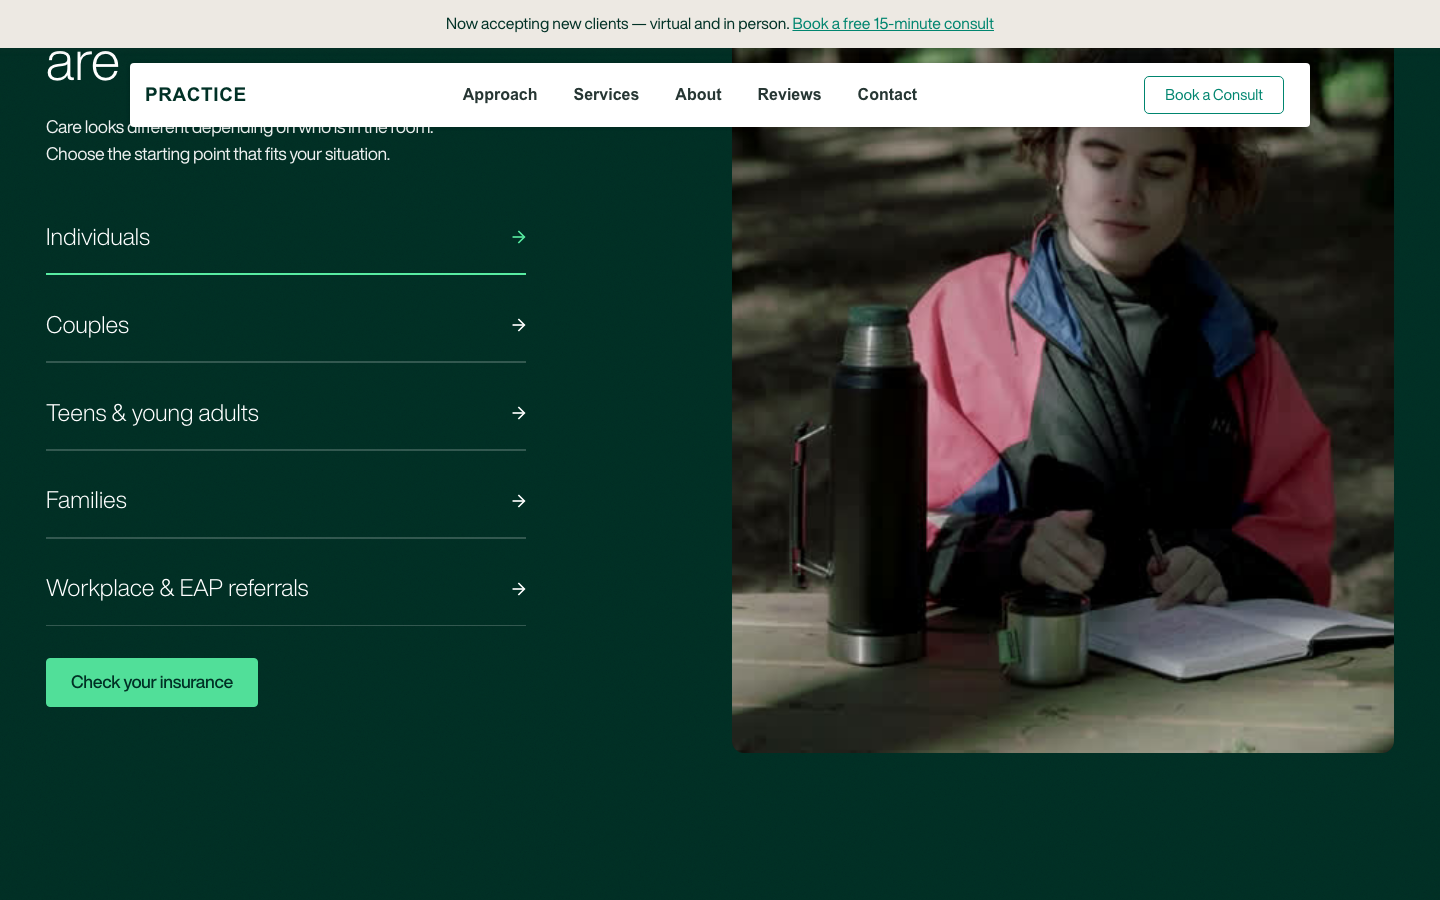
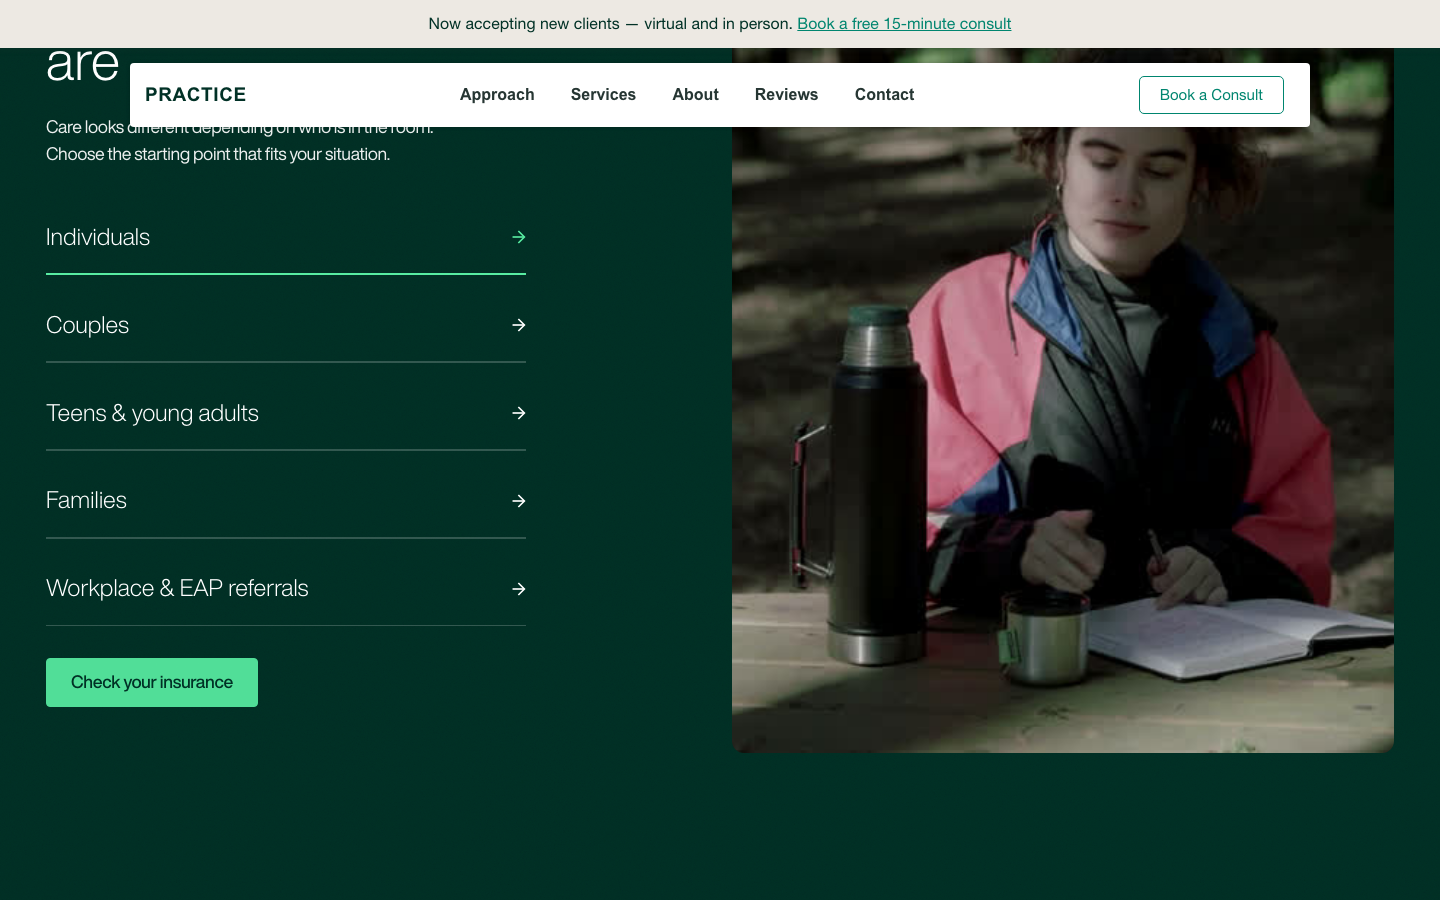
Mobile hardening: zero errors, zero small tap targets
- removed the reference site JS (lazy-loaded 5 nonexistent code-split chunks
  and threw on a null innerText) plus two dead ad-pixel snippets
- pinned font stacks: hero pill was falling back to default MONOSPACE because
  the reference sets a licensed mono face that is not served
- touch targets: 37 under 44px -> 0 (CTAs, banner link, nav, footer, swiper
  arrows, story tabs, About read-more)
- eyebrow labels lifted off the 10-11px floor to 12px
- verified chromium + webkit at 320 / 390 / 430 / 768

diff --git a/_therapy2/index.html b/_therapy2/index.html
@@ -16,6 +16,31 @@
       @keyframes tmarquee{from{transform:translateX(0)}to{transform:translateX(-50%)}}
       @media (prefers-reduced-motion:reduce){.n4-main_marquee_wrap{animation:none}}
     </style><style>
+  :root{--t-sans:'Inter',-apple-system,'Helvetica Neue',Arial,sans-serif;
+        --t-serif:'DM Serif Display',Georgia,serif}
+  body,.n4-hero_main_pill_text,[class*="n4-"],[class*="nav"],[class*="footer"]{
+    font-family:var(--t-sans)}
+  em,.n4-u-text-style-serif,[class*="cc-serif"]{font-family:var(--t-serif)}
+</style><style>
+  @media (max-width:991px){
+    .cta__green,.n4-btn_main_wrap a,.n4-btn_main_wrap button,
+    a.btn,.nav__link-item,.n4-footer_content_link a,.n4-footer_link_wrap a{
+      min-height:44px;display:inline-flex;align-items:center}
+    .banner-text a,.web-banner-container a{
+      display:inline-block;min-height:44px;line-height:44px}
+    .n4-footer_link_text{display:block;min-height:40px;line-height:40px}
+    .w-nav-button{min-width:44px;min-height:44px}
+    .branding__maven,.w-nav-brand{min-height:44px;display:inline-flex;align-items:center}
+    .n4-industry_link_item{min-height:56px}
+    #aboutMore{min-height:44px;display:inline-flex;align-items:center}
+    .n4-stories_tabs_link{min-height:44px;display:flex;align-items:center}
+    /* swiper arrows ship at 40x40 */
+    .n4-swiper_main_arrow,.swiper-button-next,.swiper-button-prev{
+      min-width:44px;min-height:44px}
+    /* eyebrow labels were 10-11px; lift to the 12px legibility floor */
+    .n4-g_eyebrow_text,.n4-tag_text,[class*="eyebrow"]{font-size:12px!important}
+  }
+</style><style>
   .ins-mark{filter:brightness(0) invert(1);opacity:.62;transition:opacity .2s}
   .n4-marquee_logo_wrap:hover .ins-mark{opacity:1}
   .n4-main_marquee_component{border-top:1px solid #58eda226;border-bottom:1px solid #58eda226}
@@ -4617,25 +4642,7 @@ body {
 <!--<script src="https://cdn.jsdelivr.net/npm/js-cookie@rc/dist/js.cookie.min.js"></script>-->
 <!-- SRI version -->
 
-<script>
-  var cookieName = 'bannerClosed';
-  var cookieValue = 'userClosedIt';
-  var cookieExpire = parseInt(document.querySelector('.web-banner-count').innerText);
-  var banner = document.querySelector('.web-banner');
-  if(typeof Cookies.get(cookieName) !== 'undefined') document.querySelector('.web-banner-collection').remove();
-  
-  var close = document.querySelector('.web-banner-close') !== null;
-  
-  if(close) {
-   document.querySelector('.web-banner-close').addEventListener('click',function() {
-      var cookieName = 'bannerClosed';
-      var cookieValue = 'userClosedIt';
-      Cookies.set(cookieName, cookieValue, { expires: cookieExpire });
-      document.querySelector('.web-banner-collection').remove();
-    }); 
-  }
-  
-</script></div></div></div></div></div><div data-animation="default" data-collapse="medium" data-duration="400" data-easing="ease" data-easing2="ease" role="banner" class="navbar nav-v2 w-nav" data-sc-id="40"><div class="content__nav" data-sc-id="41"><div class="container__navigation" data-sc-id="42"><a href="#" tabindex="0" data-wf-native-id-path="6d0c8c87-3452-2cd4-d920-b1b3b9888b49:0728b815-9a01-0de3-a77f-37e0effe5088:fe0dc579-d8ee-6346-cd16-ae4219dcd764" data-wf-ao-click-engagement-tracking="true" data-wf-element-id="fe0dc579-d8ee-6346-cd16-ae4219dcd764" data-wf-component-context="%5B%7B%22componentId%22%3A%221844fc65-b2a5-c4cf-163e-481cabbe77ec%22%2C%22instanceId%22%3A%226d0c8c87-3452-2cd4-d920-b1b3b9888b49%22%7D%2C%7B%22componentId%22%3A%22fe0dc579-d8ee-6346-cd16-ae4219dcd761%22%2C%22instanceId%22%3A%220728b815-9a01-0de3-a77f-37e0effe5088%22%7D%5D" aria-current="page" class="branding__maven w-nav-brand w--current" aria-label="home" data-sc-id="43" data-link="set-per-client"><span style="font:700 19px/1 Inter,Arial,sans-serif;letter-spacing:.03em;color:#013126">PRACTICE</span></a><nav role="navigation" class="nav-menu-4 w-nav-menu" data-sc-id="45"><a href="#approach" class="nav__link-item cc-nav" style="display:inline-flex;align-items:center;height:64px;padding:20px 18px;font:600 16px/24px Inter,Arial,sans-serif;color:#263633">Approach</a><a href="#services" class="nav__link-item cc-nav" style="display:inline-flex;align-items:center;height:64px;padding:20px 18px;font:600 16px/24px Inter,Arial,sans-serif;color:#263633">Services</a><a href="#about" class="nav__link-item cc-nav" style="display:inline-flex;align-items:center;height:64px;padding:20px 18px;font:600 16px/24px Inter,Arial,sans-serif;color:#263633">About</a><a href="#reviews" class="nav__link-item cc-nav" style="display:inline-flex;align-items:center;height:64px;padding:20px 18px;font:600 16px/24px Inter,Arial,sans-serif;color:#263633">Reviews</a><a href="#contact" class="nav__link-item cc-nav" style="display:inline-flex;align-items:center;height:64px;padding:20px 18px;font:600 16px/24px Inter,Arial,sans-serif;color:#263633">Contact</a></nav><div class="nav__right-block" data-sc-id="93"><div class="header__btn-block" data-sc-id="94"><a tabindex="0" data-wf-native-id-path="6d0c8c87-3452-2cd4-d920-b1b3b9888b49:0728b815-9a01-0de3-a77f-37e0effe5088:fe0dc579-d8ee-6346-cd16-ae4219dcd7c3" data-wf-ao-click-engagement-tracking="true" data-wf-element-id="fe0dc579-d8ee-6346-cd16-ae4219dcd7c3" data-wf-component-context="%5B%7B%22componentId%22%3A%221844fc65-b2a5-c4cf-163e-481cabbe77ec%22%2C%22instanceId%22%3A%226d0c8c87-3452-2cd4-d920-b1b3b9888b49%22%7D%2C%7B%22componentId%22%3A%22fe0dc579-d8ee-6346-cd16-ae4219dcd761%22%2C%22instanceId%22%3A%220728b815-9a01-0de3-a77f-37e0effe5088%22%7D%5D" href="#" class="cta__green cta__outlined w-button" data-sc-id="95" data-link="set-per-client">Book a Consult</a></div><div class="header-nav-btn mr-0 w-nav-button" style="-webkit-user-select: text;" aria-label="menu" role="button" tabindex="0" aria-controls="w-nav-overlay-0" aria-haspopup="menu" aria-expanded="false"><div data-w-id="fe0dc579-d8ee-6346-cd16-ae4219dcd7c9" class="menu-button menu-btn-v2 w-nav-button" style="-webkit-user-select: text;" aria-label="menu" role="button" tabindex="0" aria-controls="w-nav-overlay-0" aria-haspopup="menu" aria-expanded="false"><div class="menu-icon-v2"><div class="icon-line"></div><div class="icon-line"></div><div class="icon-line"></div><div class="icon-line"></div></div></div><div class="w-embed"><style>
+</div></div></div></div></div><div data-animation="default" data-collapse="medium" data-duration="400" data-easing="ease" data-easing2="ease" role="banner" class="navbar nav-v2 w-nav" data-sc-id="40"><div class="content__nav" data-sc-id="41"><div class="container__navigation" data-sc-id="42"><a href="#" tabindex="0" data-wf-native-id-path="6d0c8c87-3452-2cd4-d920-b1b3b9888b49:0728b815-9a01-0de3-a77f-37e0effe5088:fe0dc579-d8ee-6346-cd16-ae4219dcd764" data-wf-ao-click-engagement-tracking="true" data-wf-element-id="fe0dc579-d8ee-6346-cd16-ae4219dcd764" data-wf-component-context="%5B%7B%22componentId%22%3A%221844fc65-b2a5-c4cf-163e-481cabbe77ec%22%2C%22instanceId%22%3A%226d0c8c87-3452-2cd4-d920-b1b3b9888b49%22%7D%2C%7B%22componentId%22%3A%22fe0dc579-d8ee-6346-cd16-ae4219dcd761%22%2C%22instanceId%22%3A%220728b815-9a01-0de3-a77f-37e0effe5088%22%7D%5D" aria-current="page" class="branding__maven w-nav-brand w--current" aria-label="home" data-sc-id="43" data-link="set-per-client"><span style="font:700 19px/1 Inter,Arial,sans-serif;letter-spacing:.03em;color:#013126">PRACTICE</span></a><nav role="navigation" class="nav-menu-4 w-nav-menu" data-sc-id="45"><a href="#approach" class="nav__link-item cc-nav" style="display:inline-flex;align-items:center;height:64px;padding:20px 18px;font:600 16px/24px Inter,Arial,sans-serif;color:#263633">Approach</a><a href="#services" class="nav__link-item cc-nav" style="display:inline-flex;align-items:center;height:64px;padding:20px 18px;font:600 16px/24px Inter,Arial,sans-serif;color:#263633">Services</a><a href="#about" class="nav__link-item cc-nav" style="display:inline-flex;align-items:center;height:64px;padding:20px 18px;font:600 16px/24px Inter,Arial,sans-serif;color:#263633">About</a><a href="#reviews" class="nav__link-item cc-nav" style="display:inline-flex;align-items:center;height:64px;padding:20px 18px;font:600 16px/24px Inter,Arial,sans-serif;color:#263633">Reviews</a><a href="#contact" class="nav__link-item cc-nav" style="display:inline-flex;align-items:center;height:64px;padding:20px 18px;font:600 16px/24px Inter,Arial,sans-serif;color:#263633">Contact</a></nav><div class="nav__right-block" data-sc-id="93"><div class="header__btn-block" data-sc-id="94"><a tabindex="0" data-wf-native-id-path="6d0c8c87-3452-2cd4-d920-b1b3b9888b49:0728b815-9a01-0de3-a77f-37e0effe5088:fe0dc579-d8ee-6346-cd16-ae4219dcd7c3" data-wf-ao-click-engagement-tracking="true" data-wf-element-id="fe0dc579-d8ee-6346-cd16-ae4219dcd7c3" data-wf-component-context="%5B%7B%22componentId%22%3A%221844fc65-b2a5-c4cf-163e-481cabbe77ec%22%2C%22instanceId%22%3A%226d0c8c87-3452-2cd4-d920-b1b3b9888b49%22%7D%2C%7B%22componentId%22%3A%22fe0dc579-d8ee-6346-cd16-ae4219dcd761%22%2C%22instanceId%22%3A%220728b815-9a01-0de3-a77f-37e0effe5088%22%7D%5D" href="#" class="cta__green cta__outlined w-button" data-sc-id="95" data-link="set-per-client">Book a Consult</a></div><div class="header-nav-btn mr-0 w-nav-button" style="-webkit-user-select: text;" aria-label="menu" role="button" tabindex="0" aria-controls="w-nav-overlay-0" aria-haspopup="menu" aria-expanded="false"><div data-w-id="fe0dc579-d8ee-6346-cd16-ae4219dcd7c9" class="menu-button menu-btn-v2 w-nav-button" style="-webkit-user-select: text;" aria-label="menu" role="button" tabindex="0" aria-controls="w-nav-overlay-0" aria-haspopup="menu" aria-expanded="false"><div class="menu-icon-v2"><div class="icon-line"></div><div class="icon-line"></div><div class="icon-line"></div><div class="icon-line"></div></div></div><div class="w-embed"><style>
 	.w-nav-overlay{
   	 margin-top: -13px;
   }
@@ -5288,7 +5295,7 @@ body {
         </div>
       </div>
       <div>
-        <p style="font:700 11px/1.4 Inter,Arial,sans-serif;letter-spacing:.16em;
+        <p style="font:700 12px/1.4 Inter,Arial,sans-serif;letter-spacing:.16em;
                   text-transform:uppercase;color:#58eda2;margin:0 0 16px">About</p>
         <h2 style="font:300 clamp(30px,4vw,59.944px)/1.05 Inter,Arial,sans-serif;letter-spacing:-.02em;
                    margin:0;max-width:18ch">A room where you can finally
@@ -5828,7 +5835,7 @@ body {
       element.textContent = currentYear;
     });
   });
-</script></div></footer></div><script src="./js/jquery.min.js" type="text/javascript"></script><script src="./js/webflow-site.js" type="text/javascript"></script><!-- Google Tag Manager (noscript) -->
+</script></div></footer></div><script src="./js/jquery.min.js" type="text/javascript"></script><!-- Google Tag Manager (noscript) -->
 
 <!-- End Google Tag Manager (noscript) --><link rel="stylesheet" href="./css/swiper.css" referrerpolicy="no-referrer">
 <script src="./js/swiper-bundle.min.js"></script>
@@ -6024,7 +6031,7 @@ $(document).ready(function () {
 
 
 
-<script type="text/javascript" id="" charset="">FLPIXEL.fire("9ebce30d-0fa2-4c27-a934-6b1cf7c1f374",{category:"pagevisit",subcategory:"homepage"});</script>
+
 
 
 
@@ -6071,7 +6078,7 @@ $(document).ready(function () {
 
 
 
-<script type="text/javascript">!function(){var e='(function(){try {window.mntn = {is_viewable_verified_visit:\'false\', is_cross_device:\'false\', creative_group_id:\'\', creative_group_name:\'\', impression_epoch_micros:\'\', visit_tracking:\'\'};} catch (e) {}})();',t=document.createElement('script');t.type='text/javascript',document.createElement('canvas').getContext?t.innerText?t.innerText=e:t.textContent=e:t.text=g,e=document.getElementsByTagName('script'),e=Number(e.length)-1,(e=document.getElementsByTagName('script')[e]).parentNode.insertBefore(t,e)}();</script><script type="text/javascript">(function(){try {window.mntn = {is_viewable_verified_visit:'false', is_cross_device:'false', creative_group_id:'', creative_group_name:'', impression_epoch_micros:'', visit_tracking:''};} catch (e) {}})();</script>
+
 <script>
 (function(){
   var v=document.querySelector('video.n4-hero_main_bg'); if(!v) return;
@@ -6092,7 +6099,7 @@ $(document).ready(function () {
     <div style="padding:26px 30px;background:#013126;color:#fff;display:flex;
                 align-items:flex-start;justify-content:space-between;gap:16px">
       <div>
-        <span style="display:block;margin-bottom:8px;font:700 11px/1.4 Inter,Arial,sans-serif;
+        <span style="display:block;margin-bottom:8px;font:700 12px/1.4 Inter,Arial,sans-serif;
                      letter-spacing:.14em;text-transform:uppercase;color:#58eda2">About the practice</span>
         <h3 id="aboutModalTitle" style="margin:0;font:300 26px/1.25 Inter,Arial,sans-serif">
           How the work actually runs</h3>
